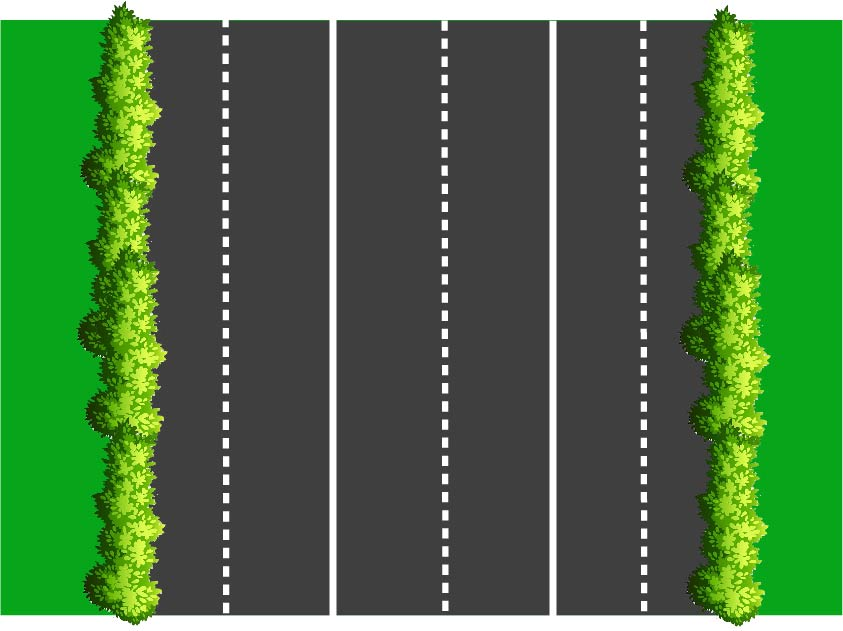
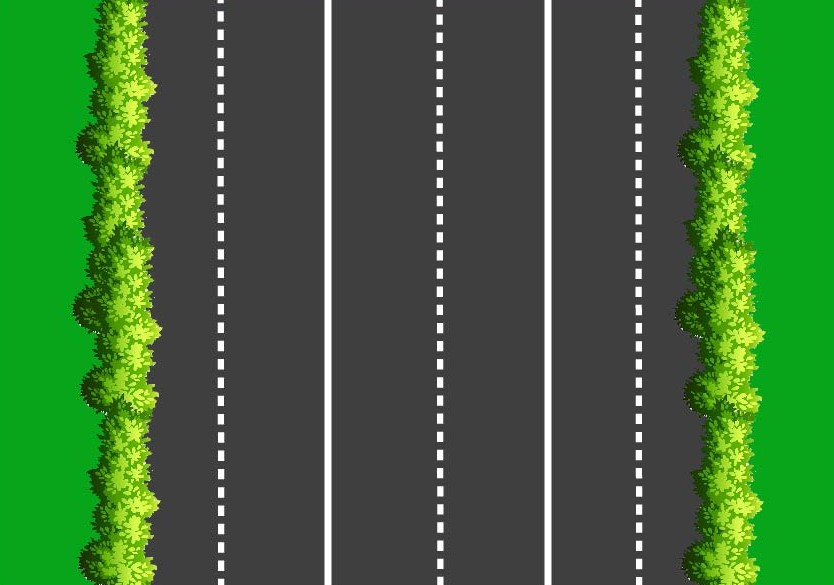
add feature -> Moving car

Changed region(s): [[0.0, 0.0, 1.0, 1.0], [0.4988, 0.1538, 0.53, 0.4615], [0.4988, 0.5846, 0.53, 0.8615]]

diff --git a/GameWindow.xaml b/GameWindow.xaml
@@ -7,9 +7,8 @@
         mc:Ignorable="d"
         Title="GameWindow" Height="450" Width="800">
     <Grid>
-        <Grid.Background>
-            <ImageBrush ImageSource="pack://application:,,,/images/road_background.jpg" Stretch="UniformToFill" />
-        </Grid.Background>
-        
+        <Image  Source="pack://application:,,,/images/road_background.jpg"  Stretch="Fill" Height="900"  />
+
+        <Image Name="player_car" Source="pack://application:,,,/images/cars/red.png"  Width="50" Height="100" Margin="390, 296, 352, 23" />
     </Grid>
 </Window>

diff --git a/CarObject.cs b/CarObject.cs
@@ -1,0 +1,65 @@
+using System;
+using System.Collections.Generic;
+using System.Linq;
+using System.Text;
+using System.Threading.Tasks;
+using System.Windows;
+using System.Windows.Controls;
+
+namespace shir_heler_project
+{
+    class CarObject : GameObject
+    {
+        Thickness MIDDLE_POSITION = new Thickness(390, 296, 352, 23);
+        Thickness LEFT_POSITION = new Thickness(184, 300, 558, 19);
+        Thickness RIGHT_POSITION = new Thickness(582, 302, 160, 17);
+
+        const string MIDDLE_POSITION_SIGN = "m";
+        const string LEFT_POSITION_SIGN = "l";
+        const string RIGHT_POSITION_SIGN = "r";
+
+
+        private string position;
+
+
+        private Image current_car_image;
+        public CarObject(Image car_image) : base(390, 296, 50, 100)
+        {
+            this.current_car_image = car_image;
+            this.position = MIDDLE_POSITION_SIGN;
+        }
+
+        //Move the player car right
+        public void MoveRight()
+        {
+            if (this.position == LEFT_POSITION_SIGN)
+            {
+                this.position = MIDDLE_POSITION_SIGN;
+                this.current_car_image.Margin = MIDDLE_POSITION;
+            }
+            else if (this.position == MIDDLE_POSITION_SIGN)
+            {
+                this.position = RIGHT_POSITION_SIGN;
+                this.current_car_image.Margin = RIGHT_POSITION;
+            }
+        }
+
+
+        //Move the player car left
+        public void ModeLeft()
+        {
+            if (this.position == RIGHT_POSITION_SIGN)
+            {
+                this.position = MIDDLE_POSITION_SIGN;
+                this.current_car_image.Margin = MIDDLE_POSITION;
+            }
+            else if (this.position == MIDDLE_POSITION_SIGN)
+            {
+                this.position = LEFT_POSITION_SIGN;
+                this.current_car_image.Margin = LEFT_POSITION;
+            }
+        }
+
+        
+    }
+}

diff --git a/GameWindow.xaml.cs b/GameWindow.xaml.cs
@@ -1,5 +1,6 @@
 using System;
 using System.Collections.Generic;
+using System.Diagnostics;
 using System.Linq;
 using System.Text;
 using System.Threading.Tasks;
@@ -19,10 +20,32 @@ namespace shir_heler_project
     /// </summary>
     public partial class GameWindow : Window
     {
+
+        const string LEFT_KEY = "Left";
+        const string RIGHT_KEY = "Right";
+
+        CarObject player_car_object;
         public GameWindow()
         {
             InitializeComponent();
             WindowStartupLocation = System.Windows.WindowStartupLocation.CenterScreen;
+            this.player_car_object = new CarObject(player_car);
+            
+
+            this.KeyDown += new KeyEventHandler(OnButtonKeyDown);
+        }
+
+        private void OnButtonKeyDown(object sender, KeyEventArgs e)
+        {
+            if (e.Key.ToString() == LEFT_KEY)
+            {
+                this.player_car_object.ModeLeft();
+            }
+            else if (e.Key.ToString() == RIGHT_KEY)
+            {
+                this.player_car_object.MoveRight();
+            }
+                
         }
     }
 }

diff --git a/GameObject.cs b/GameObject.cs
@@ -1,0 +1,31 @@
+using System;
+using System.Collections.Generic;
+using System.Linq;
+using System.Text;
+using System.Threading.Tasks;
+using System.Windows;
+
+namespace shir_heler_project
+{
+    class GameObject
+    {
+        protected int x_position { get; set;}
+        protected int y_position { get; set; }
+        protected int width { get; set; }
+        protected int height { get; set; }
+        public GameObject(int x_position, int y_position, int width, int height)
+        {
+            this.x_position = x_position;
+            this.y_position = y_position;
+            this.width = width;
+            this.height = height;
+        }
+
+        //Check if the current object is collapse with another object
+        public bool is_bounce_other_object(GameObject other_object)
+        {
+            return (Math.Abs(this.x_position - other_object.x_position) * 2 < (this.width + other_object.width) &&
+                Math.Abs(this.y_position - other_object.y_position) * 2 < (this.height + other_object.height));
+        }
+    }
+}

diff --git a/MainWindow.xaml.cs b/MainWindow.xaml.cs
@@ -24,6 +24,11 @@ namespace shir_heler_project
         {
             InitializeComponent();
             WindowStartupLocation = System.Windows.WindowStartupLocation.CenterScreen;
+
+            Dictionary<string, string> properties = new Dictionary<string, string>();
+
+            //default car color
+            properties.Add("car_color", "red");
         }
 
         private void play_button_clicked(object sender, RoutedEventArgs e)
